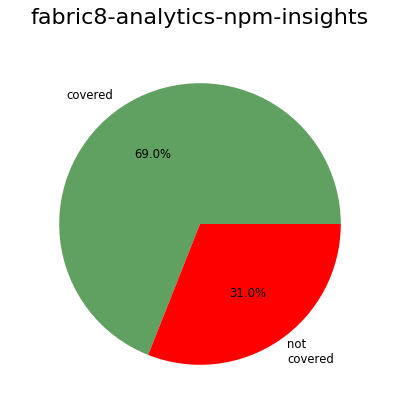
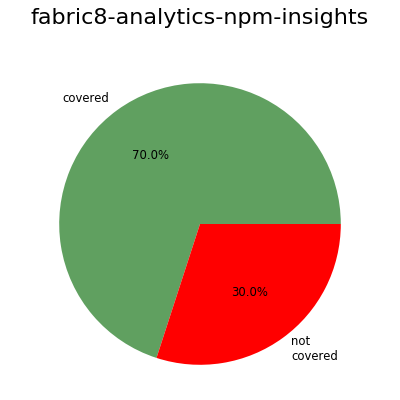
Dashboard 2018-06-21

diff --git a/dashboard/dashboard.html b/dashboard/dashboard.html
@@ -281,8 +281,8 @@
                                         </div>
                                     </a>
                                 </td>
-                                <td class="numeric ok" style="width:6ex">5806</td>
-                                <td class="numeric error" style="width:6ex">2094</td>
+                                <td class="numeric ok" style="width:6ex">5816</td>
+                                <td class="numeric error" style="width:6ex">2099</td>
                                 <td class="numeric" style="width:16ex">
                                     <a href="fabric8-analytics-worker.coverage.txt">
                                         <div class='progress-bar progress-bar-warning progress-bar-striped' style='width:69.4%'>
@@ -330,8 +330,8 @@
                                         </div>
                                     </a>
                                 </td>
-                                <td class="numeric ok" style="width:6ex">1965</td>
-                                <td class="numeric error" style="width:6ex">1427</td>
+                                <td class="numeric ok" style="width:6ex">1961</td>
+                                <td class="numeric error" style="width:6ex">1426</td>
                                 <td class="numeric" style="width:16ex">
                                     <a href="fabric8-analytics-jobs.coverage.txt">
                                         <div class='progress-bar progress-bar-warning progress-bar-striped' style='width:37.95%'>
@@ -912,12 +912,12 @@
                                         </div>
                                     </a>
                                 </td>
-                                <td class="numeric ok" style="width:6ex">335</td>
-                                <td class="numeric error" style="width:6ex">104</td>
+                                <td class="numeric ok" style="width:6ex">327</td>
+                                <td class="numeric error" style="width:6ex">98</td>
                                 <td class="numeric" style="width:16ex">
                                     <a href="fabric8-analytics-npm-insights.coverage.txt">
-                                        <div class='progress-bar progress-bar-warning progress-bar-striped' style='width:73.65%'>
-                                        69%
+                                        <div class='progress-bar progress-bar-warning progress-bar-striped' style='width:74.5%'>
+                                        70%
                                         </div>
                                     </a>
                                 </td>
@@ -1290,7 +1290,7 @@
             </div>
             <div style='height:100px'></div>
             <div>Author: Pavel Tisnovsky &lt;<a href="mailto:ptisnovs@redhat.com">ptisnovs@redhat.com</a>&gt;</div>
-            <div>Generated on: 2018-06-20 14:20:55</div>
+            <div>Generated on: 2018-06-21 13:37:45</div>
         </div>
         <script type="text/javascript">
         $(function () {

diff --git a/dashboard/repository_fabric8-analytics-common.html b/dashboard/repository_fabric8-analytics-common.html
@@ -634,7 +634,7 @@
             </div>
             <div style='height:100px'></div>
             <div>Author: Pavel Tisnovsky &lt;<a href="mailto:ptisnovs@redhat.com">ptisnovs@redhat.com</a>&gt;</div>
-            <div>Generated on: 2018-06-20 14:20:55</div>
+            <div>Generated on: 2018-06-21 13:37:45</div>
         </div>
     </body>
 </html>

diff --git a/dashboard/repository_fabric8-analytics-data-model.html b/dashboard/repository_fabric8-analytics-data-model.html
@@ -148,7 +148,7 @@
             </div>
             <div style='height:100px'></div>
             <div>Author: Pavel Tisnovsky &lt;<a href="mailto:ptisnovs@redhat.com">ptisnovs@redhat.com</a>&gt;</div>
-            <div>Generated on: 2018-06-20 14:20:55</div>
+            <div>Generated on: 2018-06-21 13:37:45</div>
         </div>
     </body>
 </html>

diff --git a/dashboard/repository_fabric8-analytics-ingestion.html b/dashboard/repository_fabric8-analytics-ingestion.html
@@ -100,7 +100,7 @@
             </div>
             <div style='height:100px'></div>
             <div>Author: Pavel Tisnovsky &lt;<a href="mailto:ptisnovs@redhat.com">ptisnovs@redhat.com</a>&gt;</div>
-            <div>Generated on: 2018-06-20 14:20:55</div>
+            <div>Generated on: 2018-06-21 13:37:45</div>
         </div>
     </body>
 </html>

diff --git a/dashboard/repository_fabric8-analytics-jobs.html b/dashboard/repository_fabric8-analytics-jobs.html
@@ -274,7 +274,7 @@
             </div>
             <div style='height:100px'></div>
             <div>Author: Pavel Tisnovsky &lt;<a href="mailto:ptisnovs@redhat.com">ptisnovs@redhat.com</a>&gt;</div>
-            <div>Generated on: 2018-06-20 14:20:55</div>
+            <div>Generated on: 2018-06-21 13:37:45</div>
         </div>
     </body>
 </html>

diff --git a/dashboard/repository_fabric8-analytics-license-analysis.html b/dashboard/repository_fabric8-analytics-license-analysis.html
@@ -202,7 +202,7 @@
             </div>
             <div style='height:100px'></div>
             <div>Author: Pavel Tisnovsky &lt;<a href="mailto:ptisnovs@redhat.com">ptisnovs@redhat.com</a>&gt;</div>
-            <div>Generated on: 2018-06-20 14:20:55</div>
+            <div>Generated on: 2018-06-21 13:37:45</div>
         </div>
     </body>
 </html>

diff --git a/dashboard/repository_fabric8-analytics-npm-insights.html b/dashboard/repository_fabric8-analytics-npm-insights.html
@@ -148,7 +148,7 @@
             </div>
             <div style='height:100px'></div>
             <div>Author: Pavel Tisnovsky &lt;<a href="mailto:ptisnovs@redhat.com">ptisnovs@redhat.com</a>&gt;</div>
-            <div>Generated on: 2018-06-20 14:20:55</div>
+            <div>Generated on: 2018-06-21 13:37:45</div>
         </div>
     </body>
 </html>

diff --git a/dashboard/repository_fabric8-analytics-nvd-toolkit.html b/dashboard/repository_fabric8-analytics-nvd-toolkit.html
@@ -226,7 +226,7 @@
             </div>
             <div style='height:100px'></div>
             <div>Author: Pavel Tisnovsky &lt;<a href="mailto:ptisnovs@redhat.com">ptisnovs@redhat.com</a>&gt;</div>
-            <div>Generated on: 2018-06-20 14:20:55</div>
+            <div>Generated on: 2018-06-21 13:37:45</div>
         </div>
     </body>
 </html>

diff --git a/dashboard/repository_fabric8-analytics-recommender.html b/dashboard/repository_fabric8-analytics-recommender.html
@@ -124,7 +124,7 @@
             </div>
             <div style='height:100px'></div>
             <div>Author: Pavel Tisnovsky &lt;<a href="mailto:ptisnovs@redhat.com">ptisnovs@redhat.com</a>&gt;</div>
-            <div>Generated on: 2018-06-20 14:20:55</div>
+            <div>Generated on: 2018-06-21 13:37:45</div>
         </div>
     </body>
 </html>

diff --git a/dashboard/repository_fabric8-analytics-server.html b/dashboard/repository_fabric8-analytics-server.html
@@ -394,7 +394,7 @@
             </div>
             <div style='height:100px'></div>
             <div>Author: Pavel Tisnovsky &lt;<a href="mailto:ptisnovs@redhat.com">ptisnovs@redhat.com</a>&gt;</div>
-            <div>Generated on: 2018-06-20 14:20:55</div>
+            <div>Generated on: 2018-06-21 13:37:45</div>
         </div>
     </body>
 </html>

diff --git a/dashboard/repository_fabric8-analytics-stack-analysis.html b/dashboard/repository_fabric8-analytics-stack-analysis.html
@@ -574,7 +574,7 @@
             </div>
             <div style='height:100px'></div>
             <div>Author: Pavel Tisnovsky &lt;<a href="mailto:ptisnovs@redhat.com">ptisnovs@redhat.com</a>&gt;</div>
-            <div>Generated on: 2018-06-20 14:20:55</div>
+            <div>Generated on: 2018-06-21 13:37:45</div>
         </div>
     </body>
 </html>

diff --git a/dashboard/repository_fabric8-analytics-tagger.html b/dashboard/repository_fabric8-analytics-tagger.html
@@ -286,7 +286,7 @@
             </div>
             <div style='height:100px'></div>
             <div>Author: Pavel Tisnovsky &lt;<a href="mailto:ptisnovs@redhat.com">ptisnovs@redhat.com</a>&gt;</div>
-            <div>Generated on: 2018-06-20 14:20:55</div>
+            <div>Generated on: 2018-06-21 13:37:45</div>
         </div>
     </body>
 </html>
